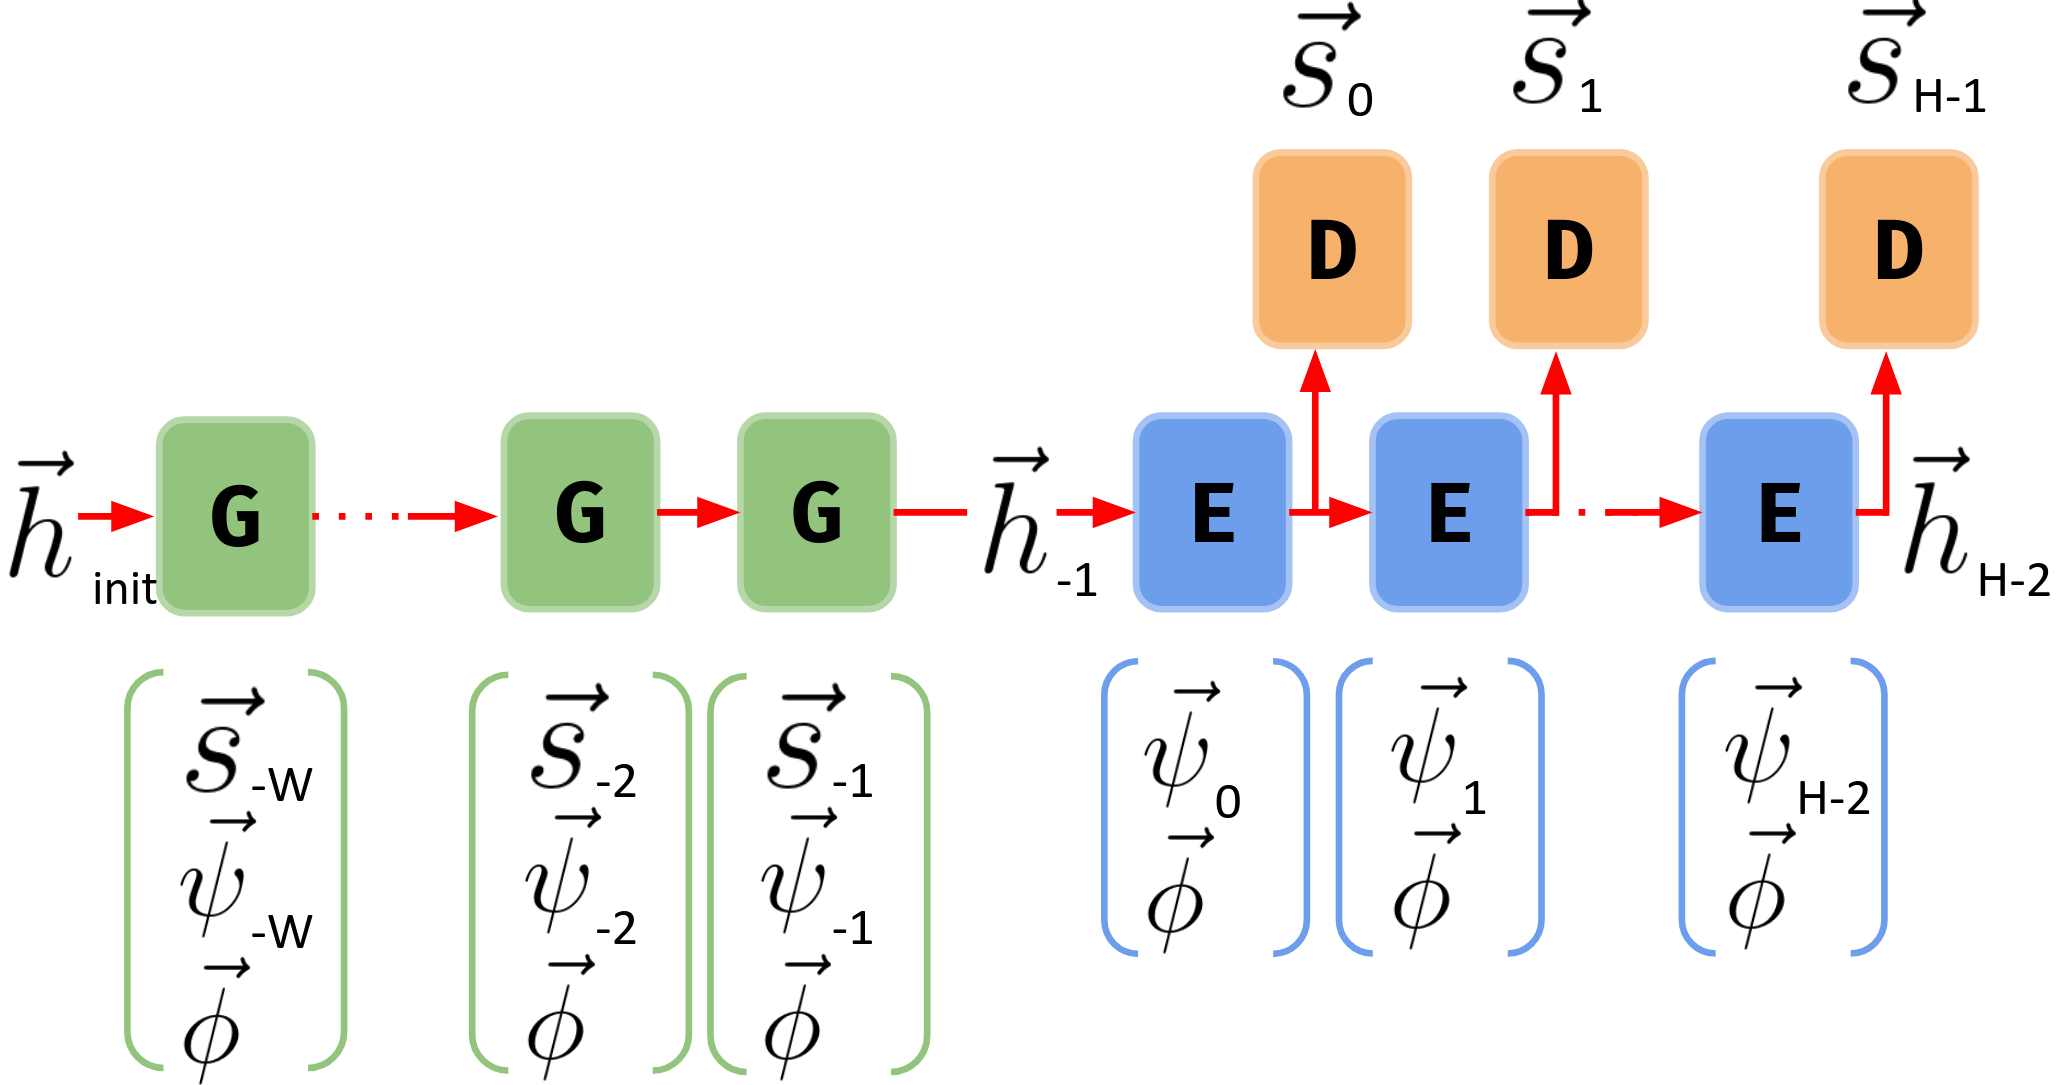
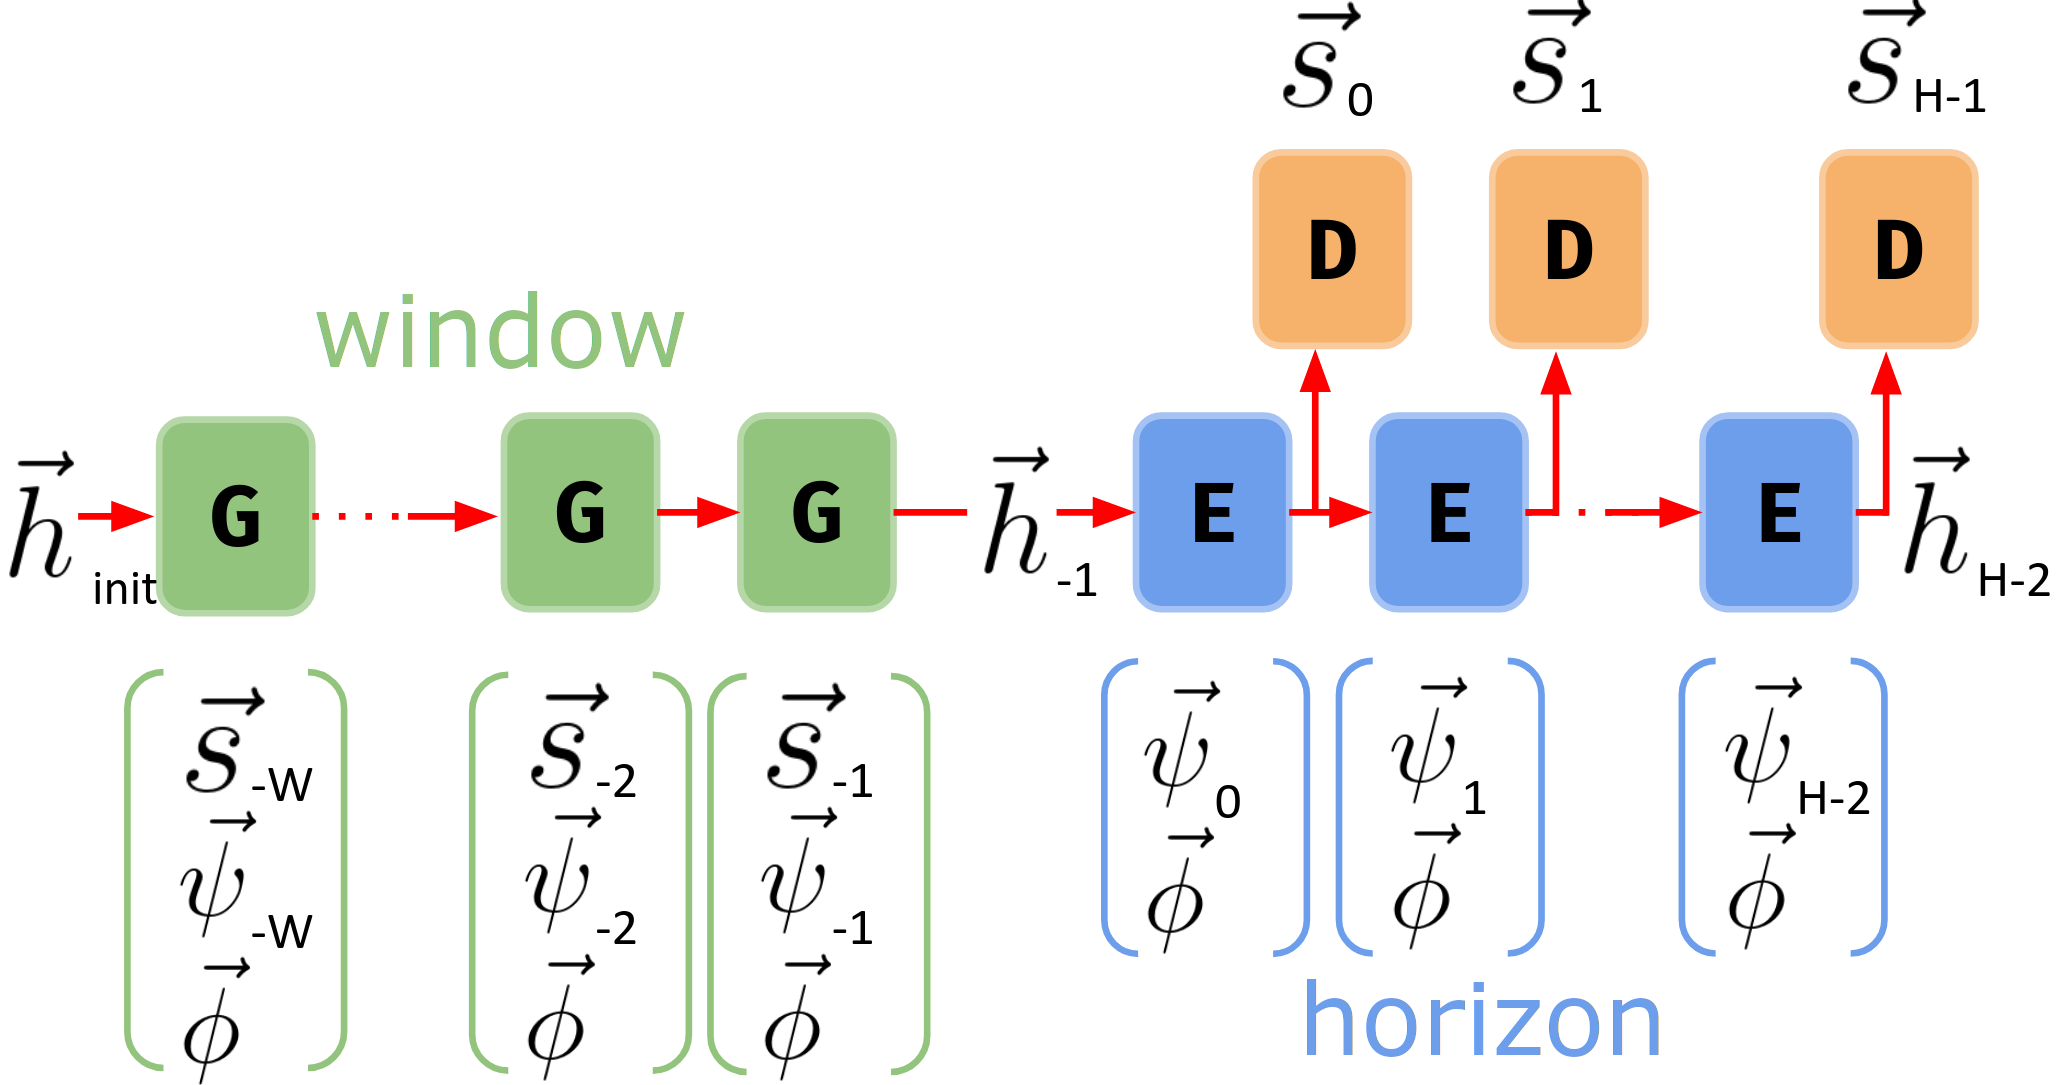
just a bit of documentation

Changed region(s): [[0.6226, 0.9124, 0.8093, 0.9733], [0.1556, 0.2737, 0.3424, 0.3346]]

diff --git a/old/plot_samples.py b/old/plot_samples.py
@@ -1,0 +1,71 @@
+import pickle as pkl
+import numpy as np
+from pathlib import Path
+from datetime import datetime
+
+from krttdkit.visualize import geoplot as gp
+
+def plot_samples(sample_dict, pivot_idx, sample_count=10):
+    time_idx = np.arange(-pivot_idx,sample_dict["dynamic"].shape[1]-pivot_idx)
+
+    soilt_labels = ("pct_sand","pct_silt","pct_clay")
+    soilt = [sample_dict["static"][...,list(sample_dict["slabels"]).index(k)]
+             for k in soilt_labels]
+    soilt = np.stack(soilt).T
+
+    soilm_labels = ("soilm-10","soilm-40","soilm-100","soilm-200")
+    soilm = [sample_dict["dynamic"][...,list(sample_dict["flabels"]).index(k)]
+             for k in soilm_labels]
+    soilm = np.stack(soilm).transpose((1,0,2))
+
+    static = sample_dict["static"]
+    yx = static[...,-2:].astype(np.uint8)
+    print(yx.shape)
+
+    print(soilt.shape, soilm.shape)
+
+    idxs = np.random.randint(0,high=static.shape[0]-1,size=sample_count)
+    for ix in idxs:
+        soil_vec = "({:.2f}, {:.2f}, {:.2f})".format(*list(soilt[ix]))
+        t = datetime.fromtimestamp(int(sample_dict["time"][ix]))
+        gp.plot_lines(
+                domain=time_idx,
+                ylines=[soilm[ix,j] for j in range(soilm.shape[1])],
+                labels=soilm_labels,
+                plot_spec={
+                    "title":f"SOILM {t} ({yx[ix,0]},{yx[ix,1]}) {soil_vec}",
+                    "xlabel":f"Hours from pivot time",
+                    "ylabel":"Soil Moisture (kg/m^2)"
+                    },
+                show=True,
+                )
+
+'''
+def plot_batch_sample(batch, sample_count=10):
+    X,pred = batch
+    window = X["window"]
+    horizon = X["horizon"]
+    static = X["static"]
+    print(static)
+    soilm = np.concatenate((window[:,-4:], pred), axis=0)
+    temp = np.concatenate((window[:,2], horizon[:,2]))
+    print(temp.shape)
+
+    gp.plot_lines(
+            domain=list(range(48)),
+            ylines=[soilm[:,j] for j in range(soilm.shape[1])],
+            show=True,
+            )
+    gp.plot_lines(
+            domain=list(range(48)),
+            ylines=[temp],
+            show=True,
+            )
+'''
+
+if __name__=="__main__":
+    sample_path = Path("data/sample/shuffled_samples.pkl")
+    batch_path = Path("data/sample/batch_samples.pkl")
+    #plot_samples(pkl.load(sample_path.open("rb")), 36, 30)
+    for i in range(30):
+        plot_batch_sample(pkl.load(batch_path.open("rb"))[i])

diff --git a/old/data_look.py b/old/data_look.py
@@ -1,0 +1,47 @@
+import pickle as pkl
+from pathlib import Path
+import numpy as np
+import matplotlib.pyplot as plt
+
+if __name__=="__main__":
+    '''
+    data_path = Path("data/models/osmh_1/osmh_1_curated.pkl")
+    model_path = Path("data/models/osmh_1/run_1/osmh_1_model.keras")
+    csv_path = Path("data/models/osmh_1/run_1/osmh_1_prog.csv")
+    '''
+    data_path = Path("data/models/osmh_1/osmh_1_curated.pkl")
+    data_dict = pkl.load(data_path.open("rb"))
+
+    window = 24
+    horizon = 12
+
+    t_feats = data_dict["train"]["X"]
+    t_truth = data_dict["train"]["Y"]
+    v_feats = data_dict["validate"]["X"]
+    v_truth = data_dict["validate"]["Y"]
+
+    t_fct = np.stack([
+        t_feats[i+1:i+horizon+1 , -1 , :-1]
+        for i in range(t_feats.shape[0]-horizon)
+        ])
+    t_feats = t_feats[:-horizon]
+
+    v_fct = np.stack([
+        v_feats[i+1:i+horizon+1 , -1 , :-1]
+        for i in range(v_feats.shape[0]-horizon)
+        ])
+    v_feats = v_feats[:-horizon]
+
+    print(t_feats.shape)
+    print(t_fct.shape)
+    for i in range(40):
+        #wdw = [t_feats[i,:,:j] for j in range(8)]
+        #fct = [t_fct[i,:,:j] for j in range(8)]
+        wdw = [t_feats[i,:,5]]
+        fct = [t_fct[i,:,5]]
+        for w in wdw:
+            plt.plot(range(t_feats.shape[1]), w)
+        for f in fct:
+            plt.plot(range(t_feats.shape[1],t_feats.shape[1]+t_fct.shape[1]),f)
+        plt.show()
+        plt.clf()

diff --git a/README.md b/README.md
@@ -1,5 +1,49 @@
 # testbed
 
+## Model Inputs and Outputs
+
+<p align="center">
+      <img src="https://github.com/Mitchell-D/testbed/blob/main/proposal/figs/abstract_rnn?raw=true" />
+</p>
+
+Each of the models recieves 4 distinct input types that are provided
+as a tuple of tensors like `(window, horizon, static, static_int)`.
+With B equal to the batch size, S indicating a sequence length, and
+F giving the feature elements, the input shapes, data types, and
+purposes are defined as follows:
+
+__window__: (B, S<sub>w</sub>, F<sub>w</sub>) `np.float32`
+
+The window consists of F<sub>w</sub> time-varying features used to
+initialize the model, including atmospheric forcings, land surface
+states, and plant phenology. The S<sub>w</sub> sequence elements
+correspond to observations leading up to the first predicted step.
+
+__horizon__: (B, S<sub>h</sub>, F<sub>h</sub>) `np.float32`
+
+The horizon tensor contains F<sub>h</sub> time-varying covariates
+associated with each prediction in the S<sub>h</sub> output sequence.
+This includes atmospheric forcings and vegetation phenology.
+
+__static__: (B, F<sub>s</sub>) `np.float32`
+
+Static features are those which are consistent throughout time for
+any individual pixel, only varying spatially, and which have physical
+quantities with magnitudes that (in principle) vary continuously.
+This includes soil component percentages, elevation, and hydraulic
+properties.
+
+__static_int__: (B, F<sub>si</sub>) `np.uint`
+
+Static integer features are time-invariant like regular static
+features, however they represent categorical data types not defined
+in terms of a physical metric (ie nearby integers don't necessarily
+correspond to similar properties, and vice-versa). Here, the feature
+dimension F<sub>si</sub> contains one or more one-hot encoded vectors
+concatenated along their feature axis. These will be embedded to
+a lower-diensional representation by a learned matrix, with a
+final size determined by the model configuration.
+
 ### nldas\_static\_netcdf.py
 
 Generate a pickle file containing static data including vegetation
